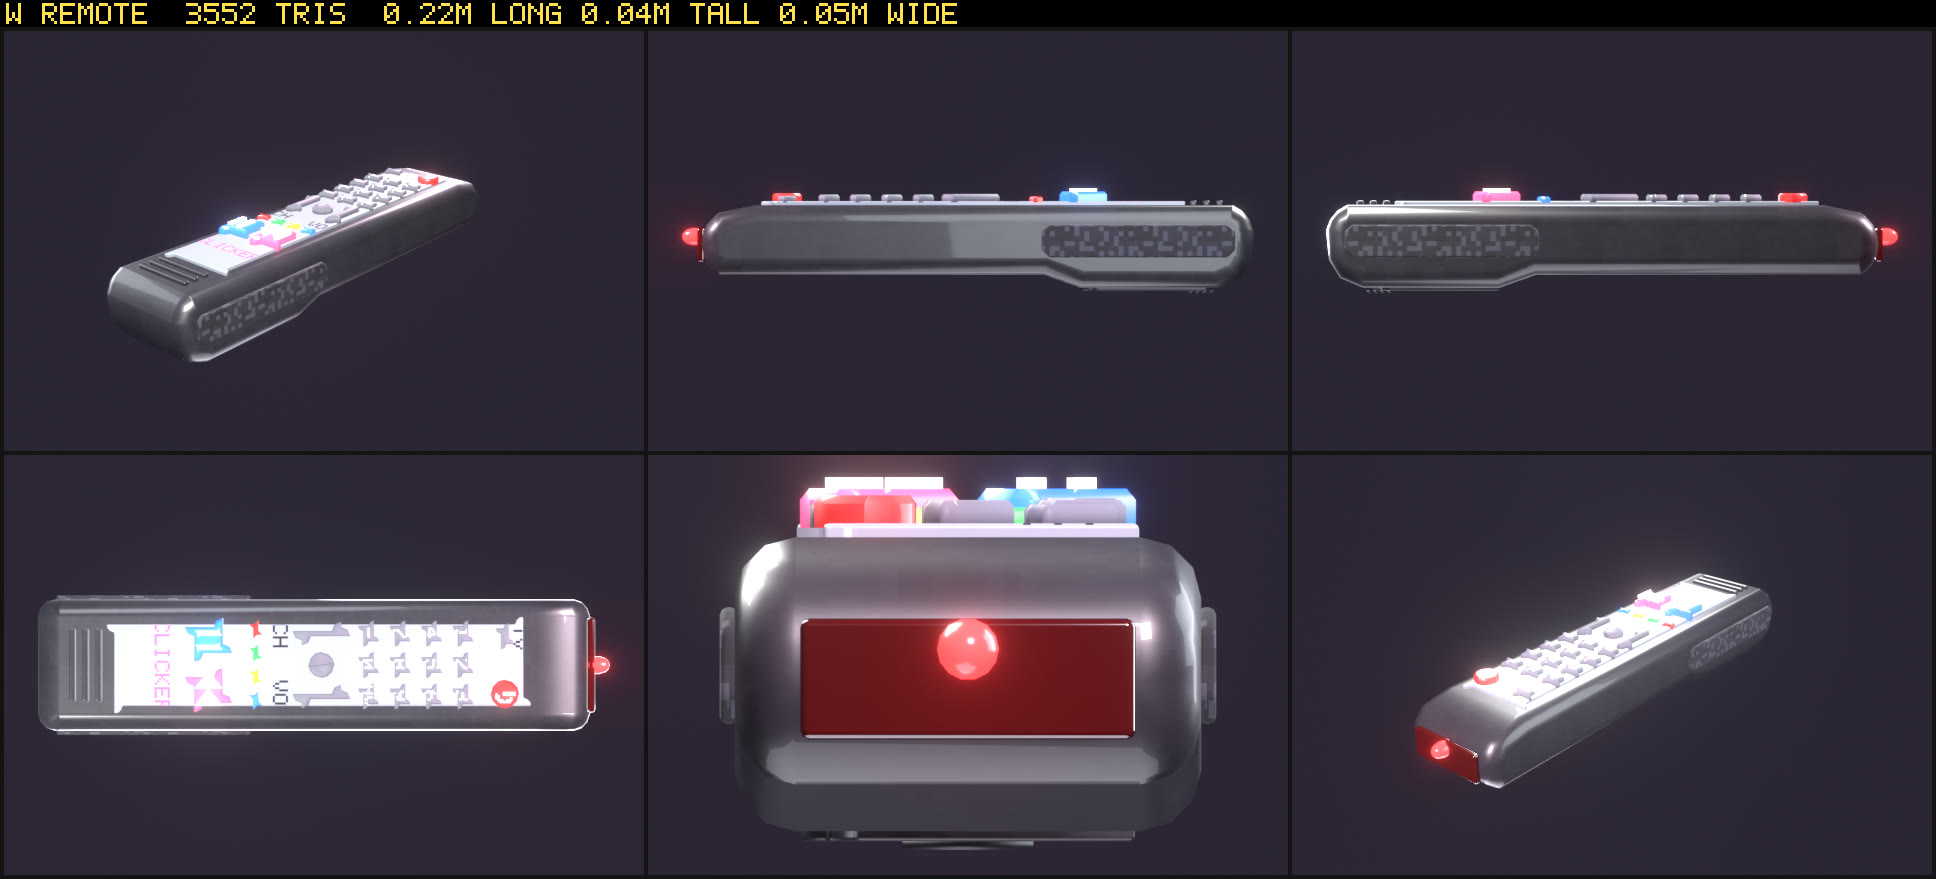
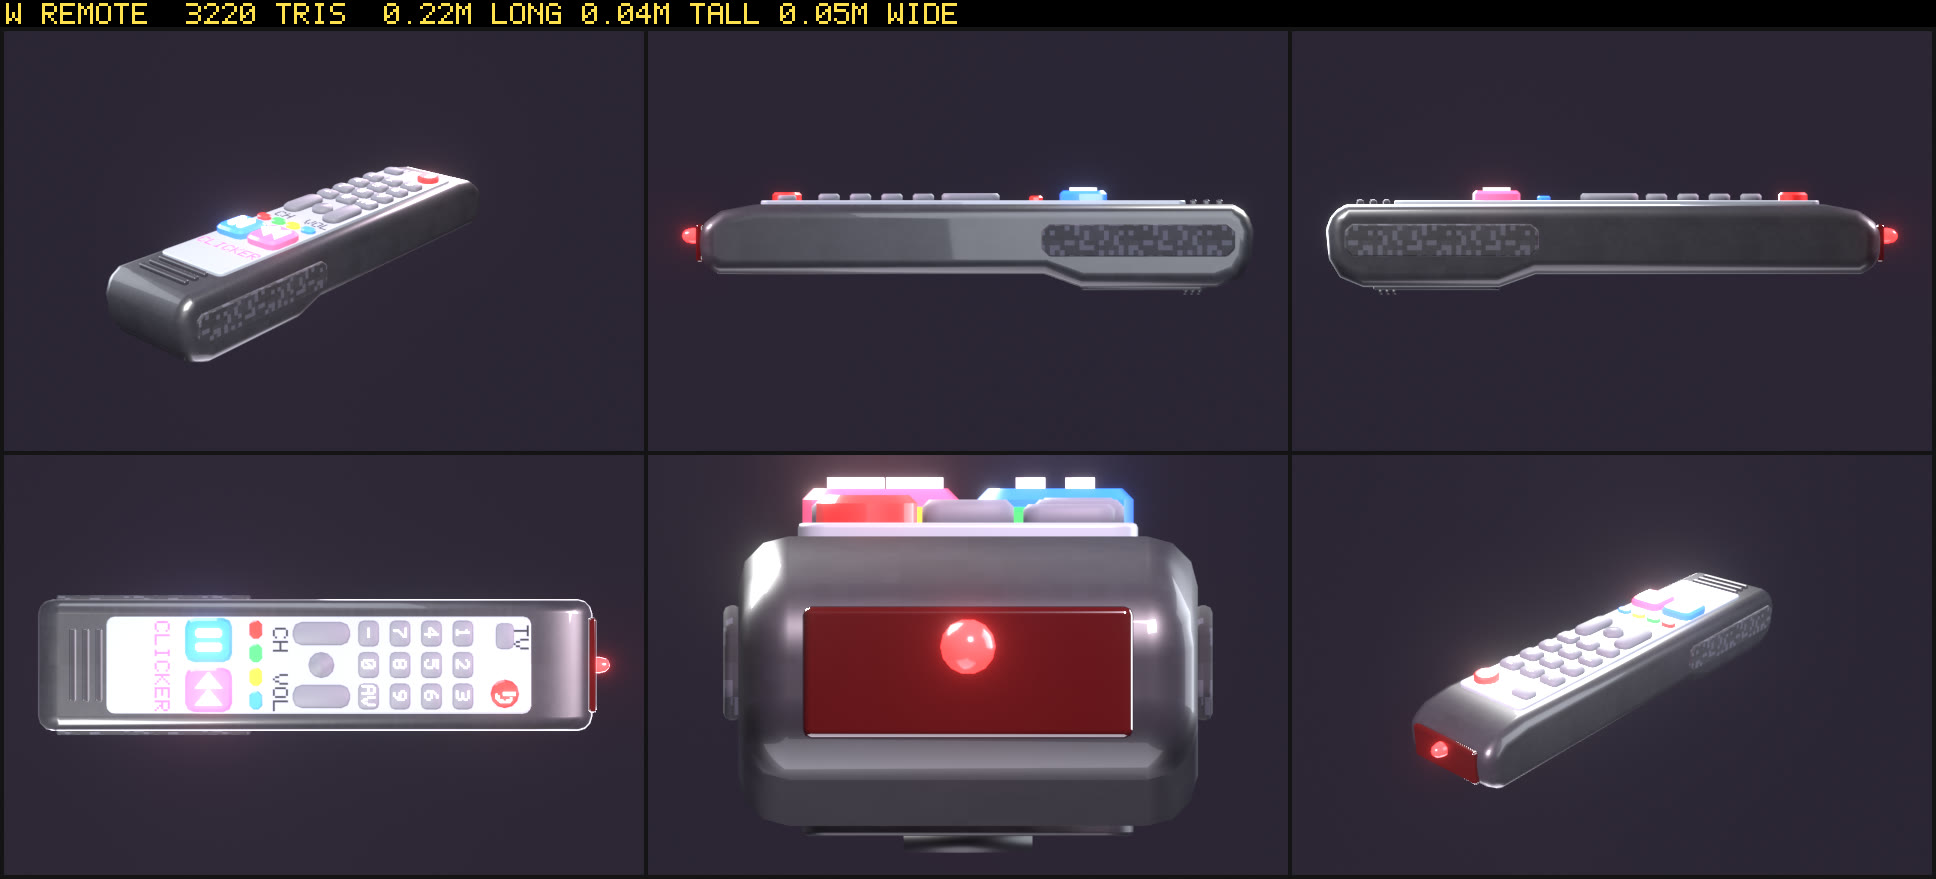
New secondaries: Blender model sheets + notes (work in progress)
Claude-Session: https://claude.ai/code/session_01Ayo4emvuonVpNRU2HPFxQY

diff --git a/tools/blender/README.md b/tools/blender/README.md
@@ -37,6 +37,10 @@ Optional size squeeze (not needed, files are 70-600 KB): `npx @gltf-transform/cl
 | `make_bowling.py` | `w_bowling.glb` | backyard pneumatic cannon (PVC barrel, air tank, sprinkler valve, gauge) |
 | `make_banana.py` | `w_banana.glb` | AKS-74U pattern, x1.1, a real banana as the banana mag, peel muzzle |
 | `make_marbles.py` | `w_marbles.glb` | flintlock blunderbuss pistol, x1.1, mason-jar marble hopper |
+| `make_water.py` | `w_water.glb` | 90s pump squirt pistol, x1.3, a soda bottle tank (neck forward, base toward you); nodes `water_wzN` (origin on the tank floor: scale y = how full) and `pump_wzB` |
+| `make_taser.py` | `w_taser.glb` | conducted-energy pistol, x1.25, cartridge with dart ports, laser chin, 3-dot sights; node `led_wzN` (ARMED light, on the rear panel) |
+| `make_remote.py` | `w_remote.glb` | CRT-era TV remote, life size, printed number pad, raised PAUSE / REWIND symbols, no sights; node `ir_wzN` (the game flashes it) |
+| `make_radar.py` | `w_radar.glb` | hand-held traffic radar, life size, coiled cord; node `lamp_wzN` (blinks), `screen` metadata = the recess the game draws the LED readout in |
 | `make_car.py` | `p_car.glb` | sedan, paint material `car_paint` (recoloured per car) |
 | `make_bus.py` | `p_bus.glb` | conventional school bus |
 | `make_forklift.py` | `p_forklift.glb` | counterbalance forklift |
